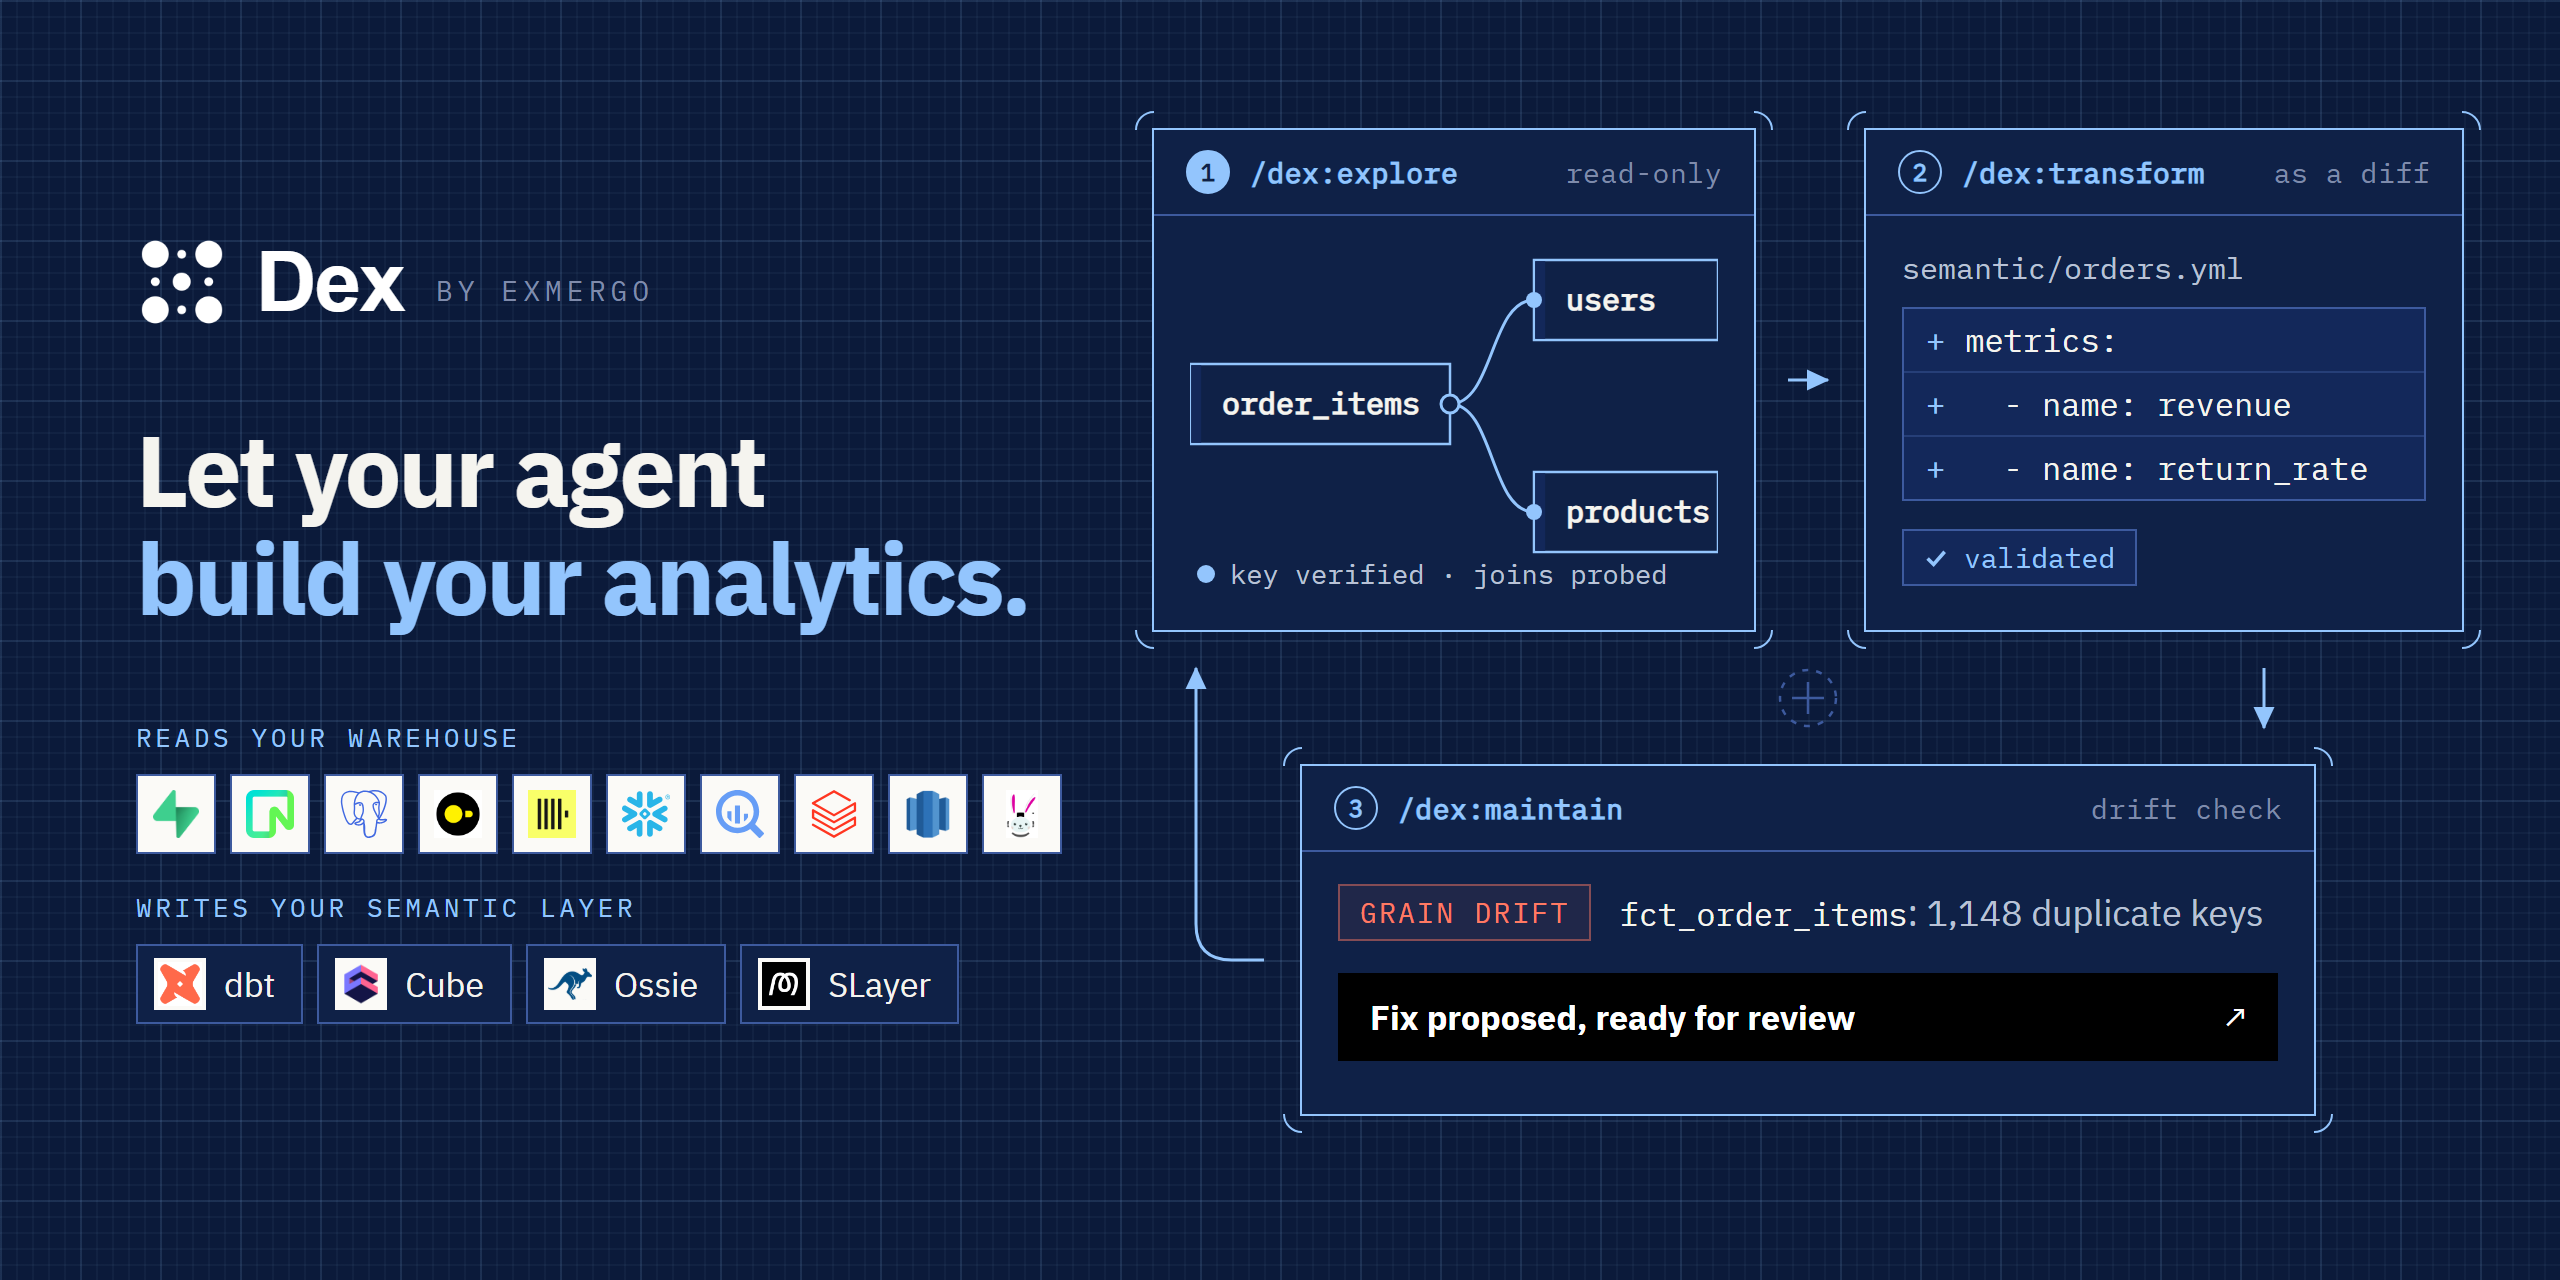
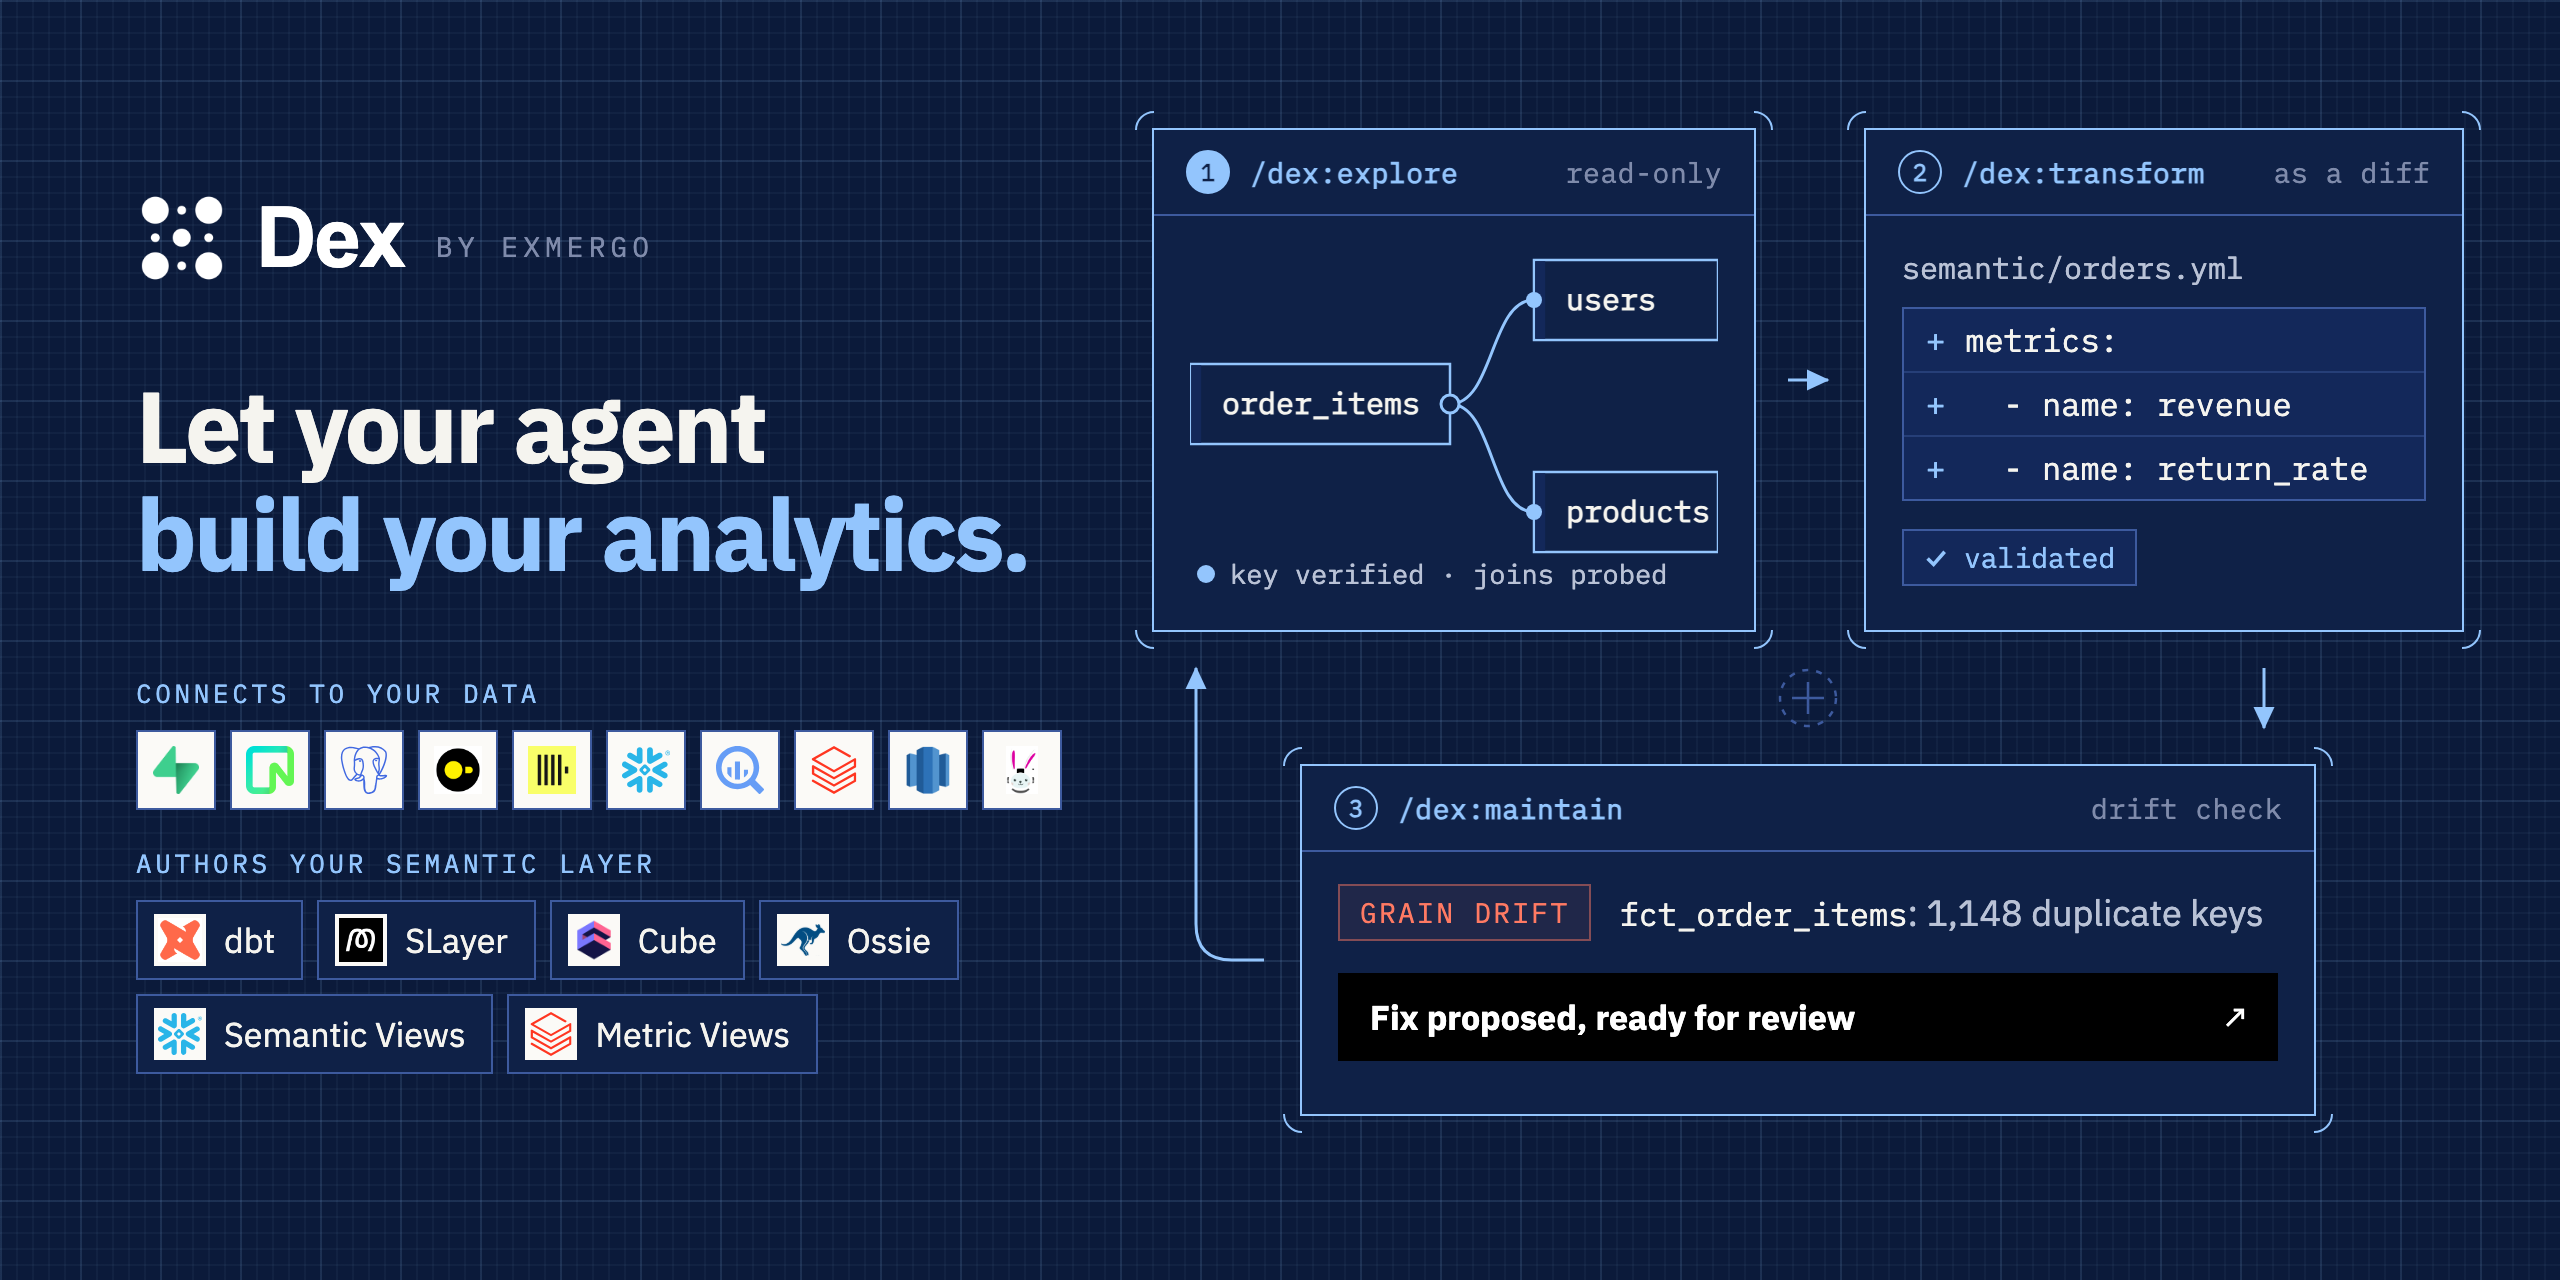
Add Dex Semantics to README.md and docs

diff --git a/scripts/build_docs_site.py b/scripts/build_docs_site.py
@@ -227,6 +227,16 @@ REFERENCE_PAGES: tuple[ReferencePage, ...] = (
         ),
     ),
     ReferencePage(
+        "dex-semantics.md",
+        "semantic-layers/dex-semantics",
+        PageMeta(
+            "Dex Semantics",
+            "What Dex Semantics is: declarations that keep a model's meaning as "
+            "code, checks of the built data against them, and the semantic "
+            "layers they derive.",
+        ),
+    ),
+    ReferencePage(
         "semantic-layer.md",
         "semantic-layers/overview",
         PageMeta(

diff --git a/references/dex-semantics.md b/references/dex-semantics.md
@@ -1,0 +1,207 @@
+# Dex Semantics: data that explains itself to your agent
+
+> *Most deadly errors arise from obsolete assumptions.*
+>
+> Frank Herbert, *Children of Dune*
+
+Your coding agent can write SQL. What it cannot see is what the SQL is supposed
+to mean: what one row is, which rows belong, how a number adds up. When that
+meaning lives only in someone's head, or in the conversation that wrote the
+model, the next schema change breaks it silently. The query still runs. The
+numbers are just wrong.
+
+Dex Semantics keeps that meaning with your models, as code. Every model your
+agent creates or changes carries a **declaration**. Dex checks the built data
+against it, reads it back in the next session, and turns it into the semantic
+layer you already use. Three steps:
+
+1. **Declare the rules.** The declaration lives with your models.
+2. **Check the results.** Dex holds the built data to the declaration.
+3. **Keep the context.** The declaration flows into tests, semantic models and
+   the next agent session.
+
+On [ADE-bench](../benchmarks/ade_bench/README.md), the same model (Claude Sonnet
+5.5) failed 15 of 75 tasks with Dex and 20 without it: **25% fewer failed
+tasks**, 60 of 75 solved against 55. One scored attempt per task; the
+comparison is the whole guided Dex workflow, not declarations alone.
+
+The field-by-field contract is
+[Declarations: what a model means](../skills/transform/references/declarations.md).
+This page is the overview.
+
+## The imperial accounts
+
+An illustrated workflow on synthetic data. The figures are invented and
+checked, not taken from a real run.
+
+The Emperor asks his coding agent for production and revenue analytics on
+Arrakis. The agent builds the models and records three definitions:
+
+| Term | Meaning |
+|---|---|
+| Production | Spice extracted |
+| Spice sold | Spice shipped |
+| Revenue | Sold × agreed price |
+
+Overnight, the source starts splitting each shipment into two lines. The join
+still runs, so nothing errors. In the morning the report says production
+doubled, from 100 to 200 tonnes, and revenue went from 140k to 280k credits.
+The desert produced nothing extra: shipment S01 now arrives as two rows, and
+each is counted.
+
+With Dex, the shipment model declares **one row per shipment**. Production
+counts harvests; revenue uses the agreed price. When the model is built, Dex
+checks it: *S01 and S02: expected 1 row, found 2.* The duplicate shipments are
+flagged before anyone reads the report, and the proposed fix (total the lines
+per shipment first, then count harvests on their own) comes back as a diff for
+the developer to review. With the fix, the report says 100 tonnes again.
+
+The same story is told as a 60-second film,
+[The imperial accounts](https://www.youtube.com/watch?v=-iYwYuzZFg0).
+
+## 1. Declare the rules
+
+A declaration travels beside the SQL in the payload of `transform plan` (and of
+`semantic define|update|plan`). It states what one row is (`grain`), which rows
+are in (`population`), what each column is (`role`, `unit`, `aggregation`,
+`additivity`, `null_rule`, `references`), and the decisions the model rests on
+(`assumptions`, each with its evidence):
+
+```json
+{"model": "fct_shipments",
+ "description": "One row per shipment.",
+ "grain": ["shipment_id"],
+ "population": {"rule": "Every shipment that left Arrakis."},
+ "columns": {
+   "shipment_id": {"role": "key"},
+   "tonnes":      {"role": "measure", "aggregation": "sum",
+                   "additivity": "additive", "unit": "tonnes"},
+   "revenue":     {"role": "measure", "aggregation": "sum",
+                   "additivity": "additive", "unit": "credits"}},
+ "assumptions": [
+   {"decision": "Which price revenue uses",
+    "chosen": "the agreed contract price",
+    "evidence": "request"}]}
+```
+
+Dex writes the declaration into the model's existing YAML entry, as a
+reviewable diff. Where dbt has a construct, it uses it; the rest goes under
+`config.meta.dex`:
+
+| Declared | Written as |
+|---|---|
+| a single-column `grain` | `unique` and `not_null` tests on that column |
+| `null_rule: never` | a `not_null` test |
+| a `foreign_key` with `references` | a `relationships` test |
+| `description` | dbt's own `description` |
+| everything else | `config.meta.dex` on the model or the column |
+
+You do not write declarations from nothing. Every plan carries
+`data.declarations.<model>`: what Dex **drafted** from what it measured (the
+grain a key proves, foreign keys from verified joins, running totals, unit
+shapes, and what sibling models do with the same columns), what is
+**declared**, and what is still **missing**. Measured facts are drafted with
+their evidence; intent (the description, the population, the assumptions) is
+never invented, only asked for.
+
+An ambiguous choice does not stop the agent. It decides on the best evidence,
+records the choice as an assumption with its tier (`request`, `contract`,
+`precedent`, `data` or `default`), and continues. Every assumption comes back
+under `data.decisions`, so the reviewer sees each decision the model rests on.
+
+## 2. Check the results
+
+A green build says dbt ran. It does not say the rows are right.
+`transform build --verify` and `maintain verify` hold each declaration to the
+relation that was actually built, with aggregate-only statements (no row
+leaves the warehouse):
+
+| Declared | What Dex reports when the data disagrees |
+|---|---|
+| `grain` | `grain_broken`, with the duplicate count |
+| `population.filters` | `population_contradicted`, with the count of rows that should not be there |
+| `population.parent` | `parent_population_missing` and `parent_population_unexpected`, as distinct-key counts |
+| `unit: fraction` or `percent` | `unit_out_of_range`, with the observed range |
+| `additivity: additive` on a running total | `additivity_contradicted` |
+| `history` on a snapshot-derived model | the temporal contract findings, as entity counts |
+
+A change to an existing model is also read against its declaration before it
+is applied: a removed population filter, a dropped grain column or a `SUM` of a
+column declared `semi_additive` is named under `contradictions` on the plan,
+with the side that looks stale.
+
+Dex checks the meaning you recorded. It does not infer your business policy
+from the data, and it never applies a fix on its own: every repair is a plan
+you review.
+
+## 3. Keep the context
+
+The declaration is part of the repository, so it outlives the conversation that
+wrote it.
+
+**Tests.** The grain, NULL rule and foreign keys render as dbt tests, which
+every build runs.
+
+**The next agent session.** `explore profile --use-project` and
+`explore map --use-project` read each model's declaration back from the YAML
+on every run and never from a cache, so a new session starts from the rule the
+project records rather than one remembered from a chat. A declared
+`references` is also a join, and a declared grain is compared with the keys Dex
+measures (`grain_status`).
+
+**Drift.** `maintain snapshot` fingerprints every declaration, and
+`maintain semantic` reports a changed population, grain, unit or aggregation as
+drift, even when the SQL did not change.
+
+**Semantic models.** A declared mart (a model under `transform.marts_paths`,
+default `models/marts`) gets the semantic definition its declaration already
+states, in whichever layer the repository reads:
+
+| `semantic.vendor` | What a declared mart gets |
+|---|---|
+| `dbt` | a MetricFlow semantic model: the grain as the primary entity, foreign keys as entities, dimensions, and measures with their aggregation |
+| `slayer` | a SLayer model file: `primary_key`, `many_to_one` joins and saved measures |
+| `cube` | a Cube model file: `primary_key`, dimensions, measures and joins |
+| `ossie` | an Apache Ossie dataset: fields, `primary_key`, dataset metrics and relationships |
+| `databricks` | a Databricks Metric View: fields, measures, formats from the unit, and joins |
+| `snowflake` | a Snowflake Semantic View logical table: `primary_key`, dimensions, facts, metrics and relationships |
+
+Three rules hold for every layer. **Metrics are never derived**: a measure is
+what a column holds, a metric is a business definition, and it stays yours.
+**Nothing is guessed or renamed**: a field a layer cannot carry is named under
+`not_carried`, with why. **A population is metadata, never a filter**: the
+mart's SQL already enforces it, so a second copy in the layer would drift the
+day the two disagree. It is carried in the layer's metadata where the format
+has a metadata key, and as the last sentence of the description everywhere.
+
+Snowflake Semantic Views and Databricks Metric Views are written as files in
+the repository. Dex deploys nothing to either platform. Which layers Dex can
+also query is in the [semantic layers table](../README.md#semantic-layers).
+
+## Adopting it on an existing project
+
+Models written before declarations existed have none, and Dex never adds them
+unasked. `transform declare` proposes, in one capped plan, the measured facts
+each selected model does not yet state (the grain, keys, foreign keys and
+running totals), each with its evidence:
+
+```bash
+dex transform declare fct_orders dim_customers
+dex transform declare --edits-file intent.json   # every model, with your intent
+```
+
+It never overwrites a fact the YAML already states, and it accounts for every
+model it skipped, with the reason. Apply the plan, run the same command again,
+and the next batch is proposed. It reads the repository and the `.dex/` cache
+only, so it is free on every connector.
+
+## Further reading
+
+- [Declarations: what a model means](../skills/transform/references/declarations.md):
+  every field, what it renders into, and every check.
+- [Querying the semantic layer](semantic-layer.md): the catalog and governed
+  queries over the layer a declaration feeds.
+- [The command contract](command-contract.md): `transform plan`,
+  `transform declare`, `transform build --verify` and `maintain verify` in full.
+- [ADE-bench results](../benchmarks/ade_bench/README.md): the run behind the
+  25% figure.

diff --git a/README.md b/README.md
@@ -1,6 +1,6 @@
 <picture>
   <source media="(prefers-color-scheme: dark)" srcset="assets/preview-dark.png" />
-  <img alt="Dex: let your agent build your analytics. Explore, transform, maintain." src="assets/preview-light.png" />
+  <img alt="Dex: let your agent build your analytics. Explore, transform, maintain. Connects to your data and authors your semantic layer: dbt, SLayer, Cube, Apache Ossie, Snowflake Semantic Views and Databricks Metric Views." src="assets/preview-light.png" />
 </picture>
 
 > *Most deadly errors arise from obsolete assumptions.*
@@ -273,6 +273,35 @@ in `.dex/config.yml`; Ossie, SLayer, and Cube need no dbt project.
 | <img src="assets/cube-logo.png" width="20" height="20" alt=""> **[Cube](https://github.com/cube-js/cube)**                                                                                  | ✅          | 🚧      | ✅         | `cube` / `local`               | Plain YAML model files, read statically with no Node or Cube server; querying asks a running Cube server to render, Dex runs it under the cost guard          | [Docs](https://docs.exmergo.com/dex/semantic-layers/overview#cube-models-vendor-cube)                     |
 
 **Coming next:** hosted Cube, hosted SLayer, hosted & queryable Snowflake Semantic View, hosted and & queryable Databricks Metric Views and Looker / LookML.
+
+## Dex Semantics
+
+**Let your agent build analytics with 25% fewer errors**, thanks to data that
+explains itself to your coding agent.
+
+A join can keep running after the source changes underneath it, and quietly
+count every row twice. Dex Semantics keeps each model's meaning with the model,
+as code, so that kind of error is caught instead of shipped:
+
+- **Declare the rules.** Every model your agent creates or changes carries a
+  declaration: what one row is, which rows belong, how each number adds up, and
+  the assumptions behind it. Dex drafts what it measured; the intent is yours.
+- **Check the results.** `transform build --verify` holds the built data to the
+  declaration: duplicate keys, rows the population excludes, a running total
+  summed across time.
+- **Keep the context.** The declaration becomes dbt tests, is read back by the
+  next agent session, and derives the semantic model for any layer above.
+
+<picture>
+  <source media="(prefers-color-scheme: dark)" srcset="assets/readme/semantics-dark.png" />
+  <img width="760" height="340" alt="Dex Semantics: the declaration lives with your models (one row per shipment; production counts harvests; revenue uses the agreed price), Dex checks the built data (S01 and S02: expected 1 row, found 2; without Dex 200 t, with Dex 100 t), and the meaning flows to tests, semantic models and the next agent session" src="assets/readme/semantics-light.png" />
+</picture>
+
+25% fewer failed tasks on [ADE-bench](benchmarks/ade_bench/README.md) with
+Claude Sonnet 5.5 (15 against 20 of 75). The image is an illustrated workflow on
+synthetic data.
+
+[Dex Semantics](references/dex-semantics.md) · [declarations](skills/transform/references/declarations.md) · [the film](https://www.youtube.com/watch?v=-iYwYuzZFg0)
 
 ## See it on a real project
 

diff --git a/assets/README.md b/assets/README.md
@@ -17,8 +17,9 @@ They are drawn in the trydex.ai style and made from source in
 
 # README section images
 
-`readme/explore-*.png`, `readme/transform-*.png`, and `readme/maintain-*.png`
-illustrate the README's Explore, Transform, and Maintain sections, each in a
+`readme/explore-*.png`, `readme/transform-*.png`, `readme/maintain-*.png`, and
+`readme/semantics-*.png` illustrate the README's Explore, Transform, Maintain, and
+Dex Semantics sections, each in a
 light and a dark (blueprint) version for GitHub's two themes, at 2x the size
 the README shows them. Their sources are `dex/readme/*.html` in
 exmergo/internal-marketing.
